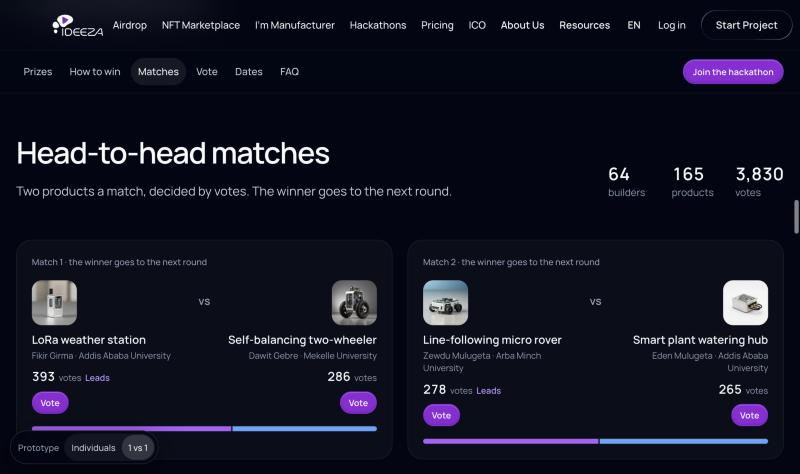
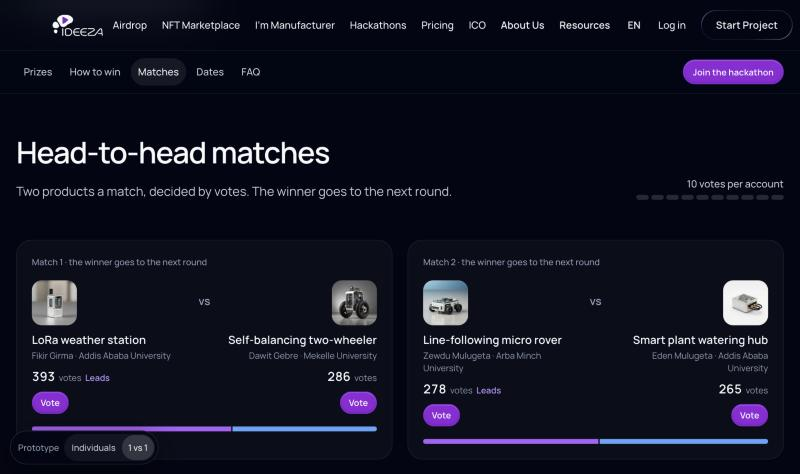
docs: CHANGELOG CL-013 — in 1 vs 1 votes are cast only in the matches; fresh 1 vs 1 shot

diff --git a/CHANGELOG.md b/CHANGELOG.md
@@ -61,6 +61,7 @@ docs/changelog/ as <date>-<short-name>-before.png / -after.png.
 - [ ] Who can join says "You compete as an individual" / "You compete as a team of 2 to 5 people" / "You compete head-to-head: one opponent per round, and the winner advances".
 - [ ] Teams: Join reads **Register your team**, How to win step 1 adds "Then invite your teammates.", the terms show a "Teams of 2 to 5" chip, and the board counts teams ("Top teams").
 - [ ] **1 vs 1:** the standings become **Head-to-head matches**, lead "Two products a match, decided by votes. The winner goes to the next round." The section bar link reads **Matches**.
+  - Votes are cast only in the matches: there is no separate Vote section in 1 vs 1, and the section bar has no Vote link. **Vote for projects** (hero, closing) and the way back after signing in go to the matches. The voter's count ("10 votes per account" / "n of 10 votes left" over ten pips) sits beside the matches' heading.
   - Products are paired by votes: 1st against 2nd, 3rd against 4th, and so on; an odd one out waits.
   - Each match is a card: "Match 1 · the winner goes to the next round", then the two products side by side with "vs" between them. Each side: the product picture (opens the product), its name, maker · university, votes, **Leads** on the one ahead, and **Vote**. Under them, one bar split by each side's share of the votes (violet · blue).
   - Two cards a row on wide screens, one on phones. With fewer than two products: "Not enough entries for a match yet."
@@ -87,7 +88,7 @@ Prototype only (nothing to build): a small **Prototype** pill floats at the bott
 
 | Before (one style) | After: Individuals | After: 1 vs 1 |
 | --- | --- | --- |
-| ![The board before: the university league and Top builders](docs/changelog/2026-11-16-hackathons-leaderboard.png) | ![The same board, with the Prototype pill at the bottom-left set to Individuals](docs/changelog/2026-11-17-hackathons-individuals-after.png) | ![Head-to-head matches: two products per card, votes, Leads and Vote](docs/changelog/2026-11-17-hackathons-1v1-after.png) |
+| ![The board before: the university league and Top builders](docs/changelog/2026-11-16-hackathons-leaderboard.png) | ![The same board, with the Prototype pill at the bottom-left set to Individuals](docs/changelog/2026-11-17-hackathons-individuals-after.png) | ![Head-to-head matches: two products per card, votes, Leads and Vote; the votes-left count beside the heading; no Vote link in the section bar](docs/changelog/2026-11-17-hackathons-1v1-after.png) |
 
 ---
 
